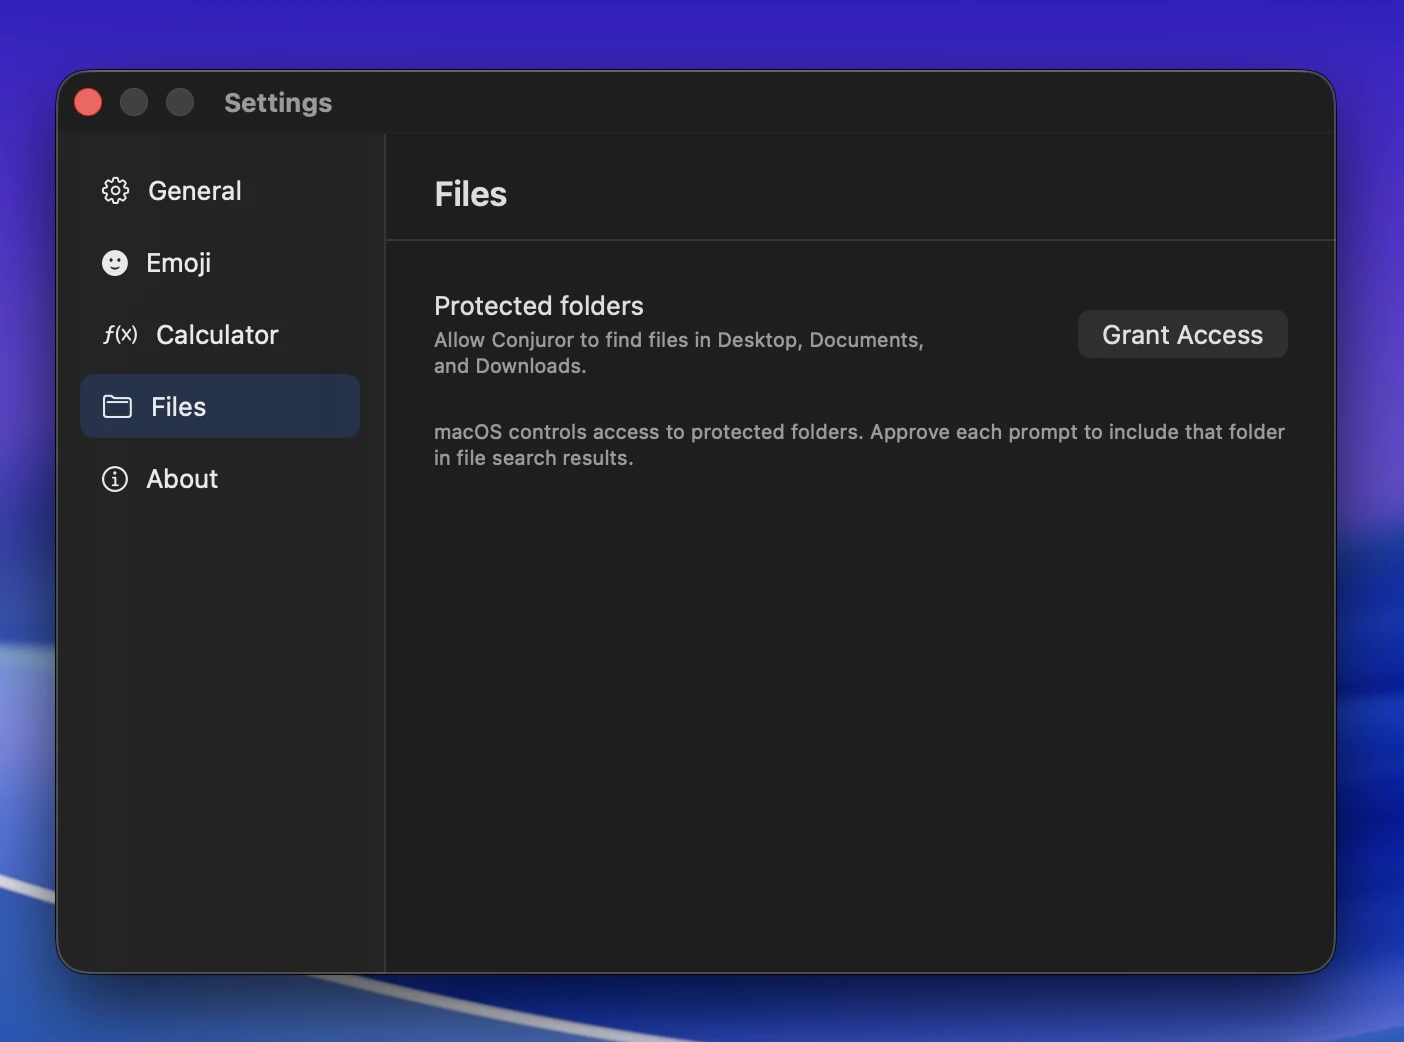
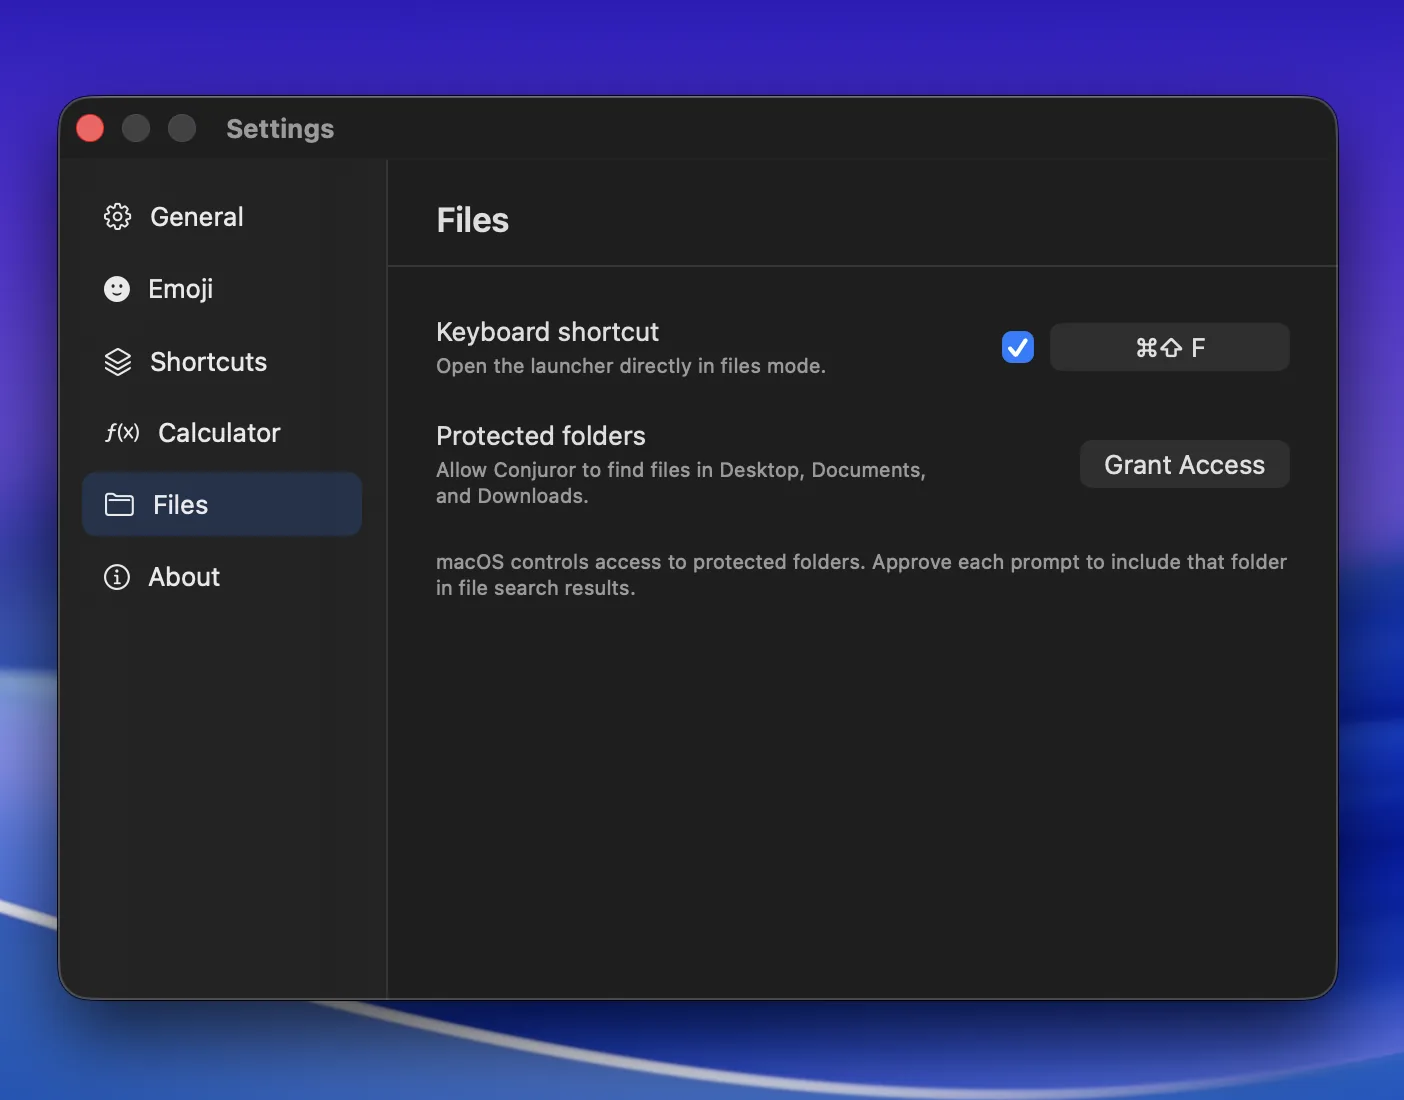
Refresh documentation settings screenshots

diff --git a/layouts/shortcodes/docs-screenshot.html b/layouts/shortcodes/docs-screenshot.html
@@ -1,4 +1,4 @@
 <figure class="docs-screenshot">
-  <img src="{{ .Get "src" | relURL }}" alt="{{ .Get "alt" }}" width="1404" height="1042" loading="lazy">
+  <img src="{{ .Get "src" | relURL }}" alt="{{ .Get "alt" }}" width="1404" height="1100" loading="lazy">
   {{ with .Get "caption" }}<figcaption>{{ . }}</figcaption>{{ end }}
 </figure>
